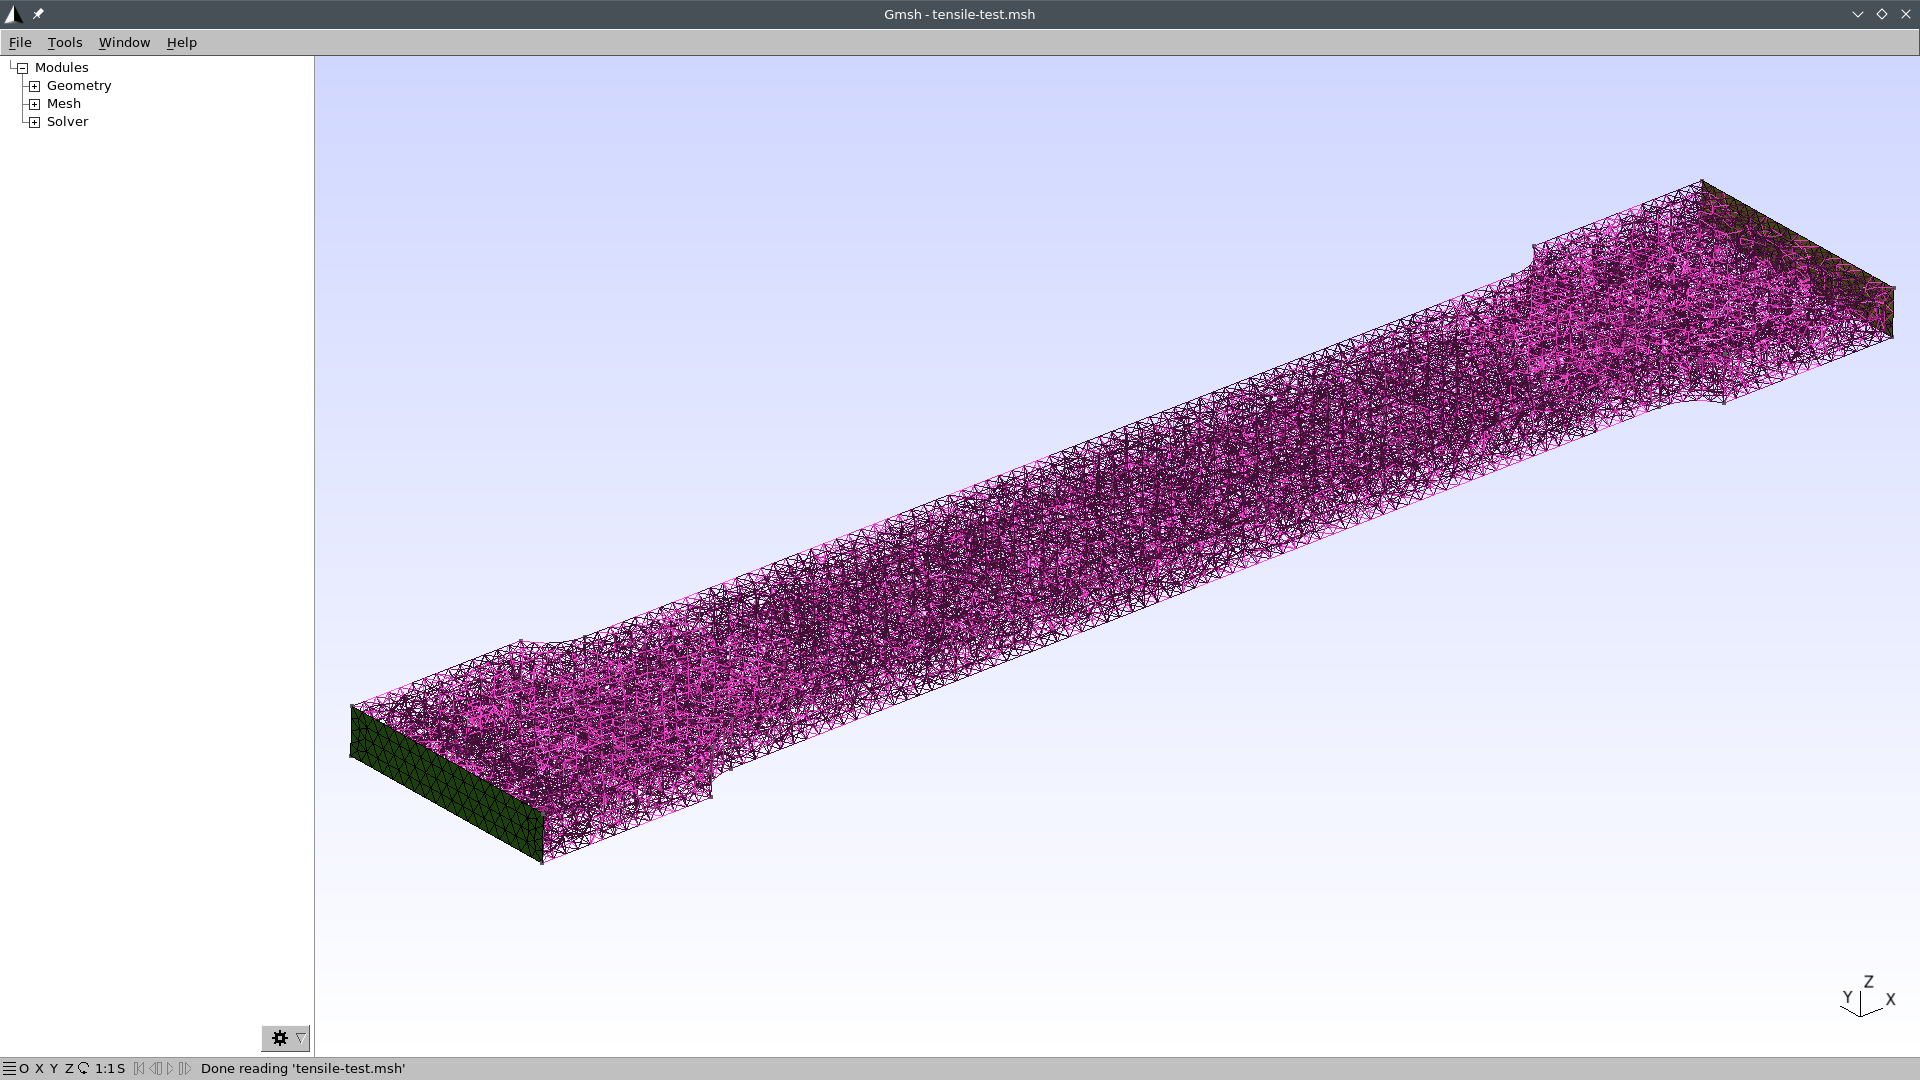
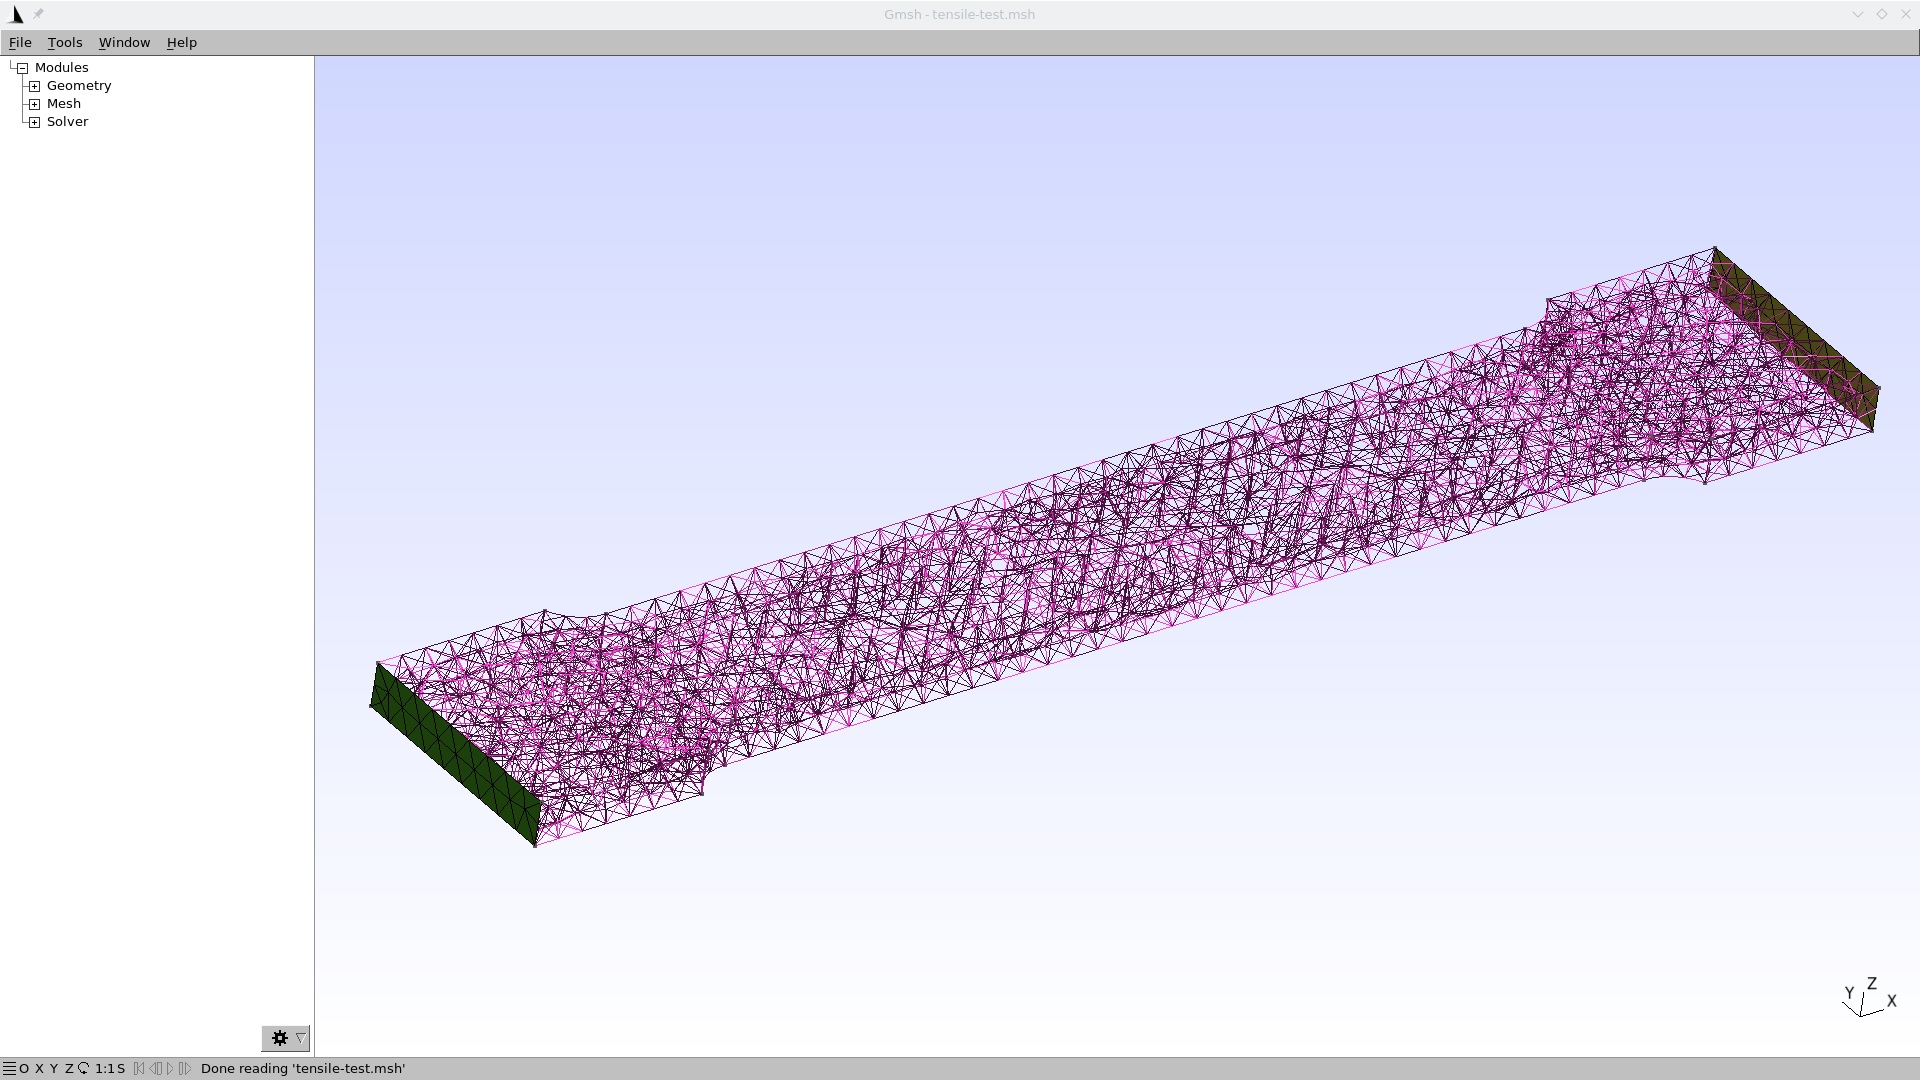
tutorial

Changed region(s): [[0.1562, 0.1528, 1.0, 0.7944], [0.0, 0.0, 1.0, 0.0306]]

diff --git a/doc/tutorials/110-tensile-test/README.md b/doc/tutorials/110-tensile-test/README.md
@@ -9,7 +9,7 @@ number-sections: true
 toc: true
 ...
 
-# Foreword
+# Foreword {#sec:foreword}
 
 Welcome to FeenoX’ tutorial number one!
 This first case...
@@ -20,7 +20,14 @@ This first case...
 
 > _Heads up_: this tutorial, being the first is also detailed and long. Those impatient readers might want to check directly some of the [annotated examples](https://seamplex.com/feenox/examples/) in [FeenoX webpage](https://seamplex.com/feenox/).
  
-For the nearly impatient, here is a summary of what we are going to achieve by the end of the tutorial:
+For the nearly impatient, here is a summary of what we are going to achieve by the end of the tutorial.
+We are going to understand what each of the parts of the FeenoX input file do:
+
+```{.fee include="tensile-test.fee"}
+```
+
+And we are going to run bot Gmsh and FeenoX to obtain the results listed in @sec:expected.
+
 
 **Terminal mimic**
 
@@ -235,35 +242,33 @@ Since we are solving a mechanical problem with FeenoX, any surface (or edge or v
   
     ```terminal
     $ gmsh -3 tensile-test.geo
-    Info    : Running 'gmsh -3 tensile-test.geo' [Gmsh 4.10.5, 1 node, max. 1 thread]    
-    Info    : Started on Sat Sep  3 15:36:58 2022    [...]
-    Info    : Reading 'tensile-test.geo'...    Info    : [100%] Meshing surface 14 order 2
-    Info    : Reading 'tensile-test-specimen.step'...    Info    : [100%] Meshing volume 1 order 2
-    Info    :  - Label 'Shapes/ASSEMBLY/=>[0:1:1:2]/Pad' (3D)    Info    : Surface mesh: worst distortion = 0.909145 (0 elements in ]0, 0.2]); worst gamma = 0.75719
-    Info    :  - Color (0.8, 0.8, 0.8) (3D & Surfaces)    Info    : Volume mesh: worst distortion = 0.761171 (0 elements in ]0, 0.2])
-    Info    : Done reading 'tensile-test-specimen.step'    Info    : Done meshing order 2 (Wall 0.22224s, CPU 0.222229s)
-    Info    : Done reading 'tensile-test.geo'    Info    : Optimizing mesh (HighOrderElastic)...
-    Info    : Meshing 1D...    Info    : Applying elastic analogy to high-order mesh...
-    Info    : [  0%] Meshing curve 1 (Line)    Info    : High-order tools set up: 49495 nodes are considered
-    Info    : [ 10%] Meshing curve 2 (Line)    Info    : Surface mesh: worst distortion = 0.909145 (0 elements in ]0, 0.2]); worst gamma = 0.75719
-    Info    : [ 10%] Meshing curve 3 (Line)    Info    : Final surface mesh: worst distortion = 0.909145 (0 elements in ]0, 0.2]); worst gamma = 0.75719
+    Info    : Running 'gmsh -3 tensile-test.geo' [Gmsh 4.10.5, 1 node, max. 1 thread]
+    Info    : Started on Sat Sep 10 15:22:59 2022
+    Info    : Reading 'tensile-test.geo'...
+    Info    : Reading 'tensile-test-specimen.step'...
+    Info    :  - Label 'Shapes/ASSEMBLY/=>[0:1:1:2]/Pad' (3D)
+    Info    :  - Color (0.8, 0.8, 0.8) (3D & Surfaces)
+    Info    : Done reading 'tensile-test-specimen.step'
+    Info    : Done reading 'tensile-test.geo'
+    Info    : Meshing 1D...
+    Info    : [  0%] Meshing curve 1 (Line)
+    Info    : [ 10%] Meshing curve 2 (Line)
+    Info    : [ 10%] Meshing curve 3 (Line)
     [...]
     -----8<----- more output cut out -----8<-----
     [...]
-    Info    : Volume mesh: worst distortion = 0.761171 (0 elements in ]0, 0.2])
-    Info    : Generating elastic system...
-    Info    : Solving linear system (89067 unknowns)...
-    Info    : Final volume mesh: worst distortion = 0.831408 (0 elements in ]0, 0.2])
-    Info    : Done applying elastic analogy to high-order mesh (5.0267 s)
-    Info    : Done optimizing mesh (Wall 4.7834s, CPU 5.03213s)
-    Info    : 50027 nodes 40376 elements
+    Info    : Final volume mesh: worst distortion = 0.796943 (0 elements in ]0, 0.2])
+    Info    : Done applying elastic analogy to high-order mesh (0.652083 s)
+    Info    : Done optimizing mesh (Wall 0.595085s, CPU 0.652091s)
+    Info    : 10754 nodes 8949 elements
     Info    : Writing 'tensile-test.msh'...
     Info    : Done writing 'tensile-test.msh'
-    Info    : Stopped on Sat Sep  3 15:37:06 2022 (From start: Wall 8.12854s, CPU 8.5042s)
+    Info    : Stopped on Sat Sep 10 15:23:01 2022 (From start: Wall 1.35632s, CPU 1.62598s)
     $
     ```
     
-    If you don't like Gmsh' verbosity, you can change it with the command-line option `-v`. I recommend you read its [extensive documentation](http://gmsh.info/doc/texinfo/gmsh.html) for further details.
+    If you don't like Gmsh' verbosity, you can change it with the command-line option `-v`.
+    I recommend you read its [extensive documentation](http://gmsh.info/doc/texinfo/gmsh.html) for further details.
     
  6. Now that the mesh file has been created, you can open it with the Gmsh GUI to check how it looks like.
  
@@ -280,11 +285,15 @@ Since we are solving a mechanical problem with FeenoX, any surface (or edge or v
     
      * Tools $\rightarrow$ Options $\rightarrow$ Mesh $\rightarrow$ 3D element faces
      
+    We can then add a clipping plane to peek at the tetrahedra in the bulk of the specimen:
+    
+     * Tools $\rightarrow$ Clipping $\rightarrow$ Mesh $\rightarrow$ $A=0$, $B=1$, "Keep whole elements"
+     
     Now you should get 
     
     ![](gmsh-mesh-volume.png)\ 
     
-    We are seeing the faces of the tetrahedra that make up the bulk of the mesh. Feel free to close Gmsh now, we are done with it.
+    Feel free to close Gmsh now, we are done with it.
 
 
 In general, multi-solid problems need to have different physical volumes in order for FeenoX to be able to set different mechanical properties. Even though this simple problem has a single solid and an explicit link is not needed, a physical volumetric group is needed in order for Gmsh to write the volumetric elements (i.e. tetrahedra) into the [output MSH file](tensile-test.msh) (which is an input for FeenoX).
@@ -312,7 +321,7 @@ As discussed in @sec:unix, FeenoX reads a plain-text input file---which in turns
 
 The input file is a [syntactically-sweetened](http://en.wikipedia.org/wiki/Syntactic_sugar) way to ask the computer to perform the actual computation (which is what computers do). This input file, as illustrated in the example below lives somewhere near the English language so a person can read through it from the top down to the bottom and more or less understand what is going on (rule of [least surprise](https://homepage.cs.uri.edu/~thenry/resources/unix_art/ch01s06.html#id2878339)). The idea is that this input file should match as much as possible the definition of the problem as an engineer would cast it in a plain sheet of paper (or blackboard).
 
-**blackboard picture with the problem definition**
+![Human-made formulation of the tensile test problem in a board.](blackboard.jpg){#fig:blackboard}
 
 Yet in the extreme case that the complexity of the problem asks for, the input file could be machine-generated by a script or a macro (rule of [generation](https://homepage.cs.uri.edu/~thenry/resources/unix_art/ch01s06.html#id2878742)).
 Or if the circumstances call for an actual graphical interface for properly processing (both pre and post) the problem, the input file could be created by a separate cooperating front-end such as [CAEplex](https://www.caeplex.com) in [@fig:tensile-cad] above (rule of [separation](https://homepage.cs.uri.edu/~thenry/resources/unix_art/ch01s06.html#id2877777)).
@@ -322,34 +331,7 @@ This is not true for most of the other FEA tools available today, particularly t
 Given that the problem is relatively simple, following the rule of [simplicity](https://homepage.cs.uri.edu/~thenry/resources/unix_art/ch01s06.html#id2877917),
 the input file [`tensile-test.fee`](tensile-test.fee) ought to be also simple. Other cases with more complexity might lead to more complex input files.
 
-```feenox
-# tensile test example for FeenoX, see https://caeplex.com/p/41dd1
-MESH FILE_PATH tensile-test.msh  # mesh file in Gmsh format (either version 2.2 or 4.x)
-
-# uniform properties given as scalar variables
-E = 200e3   # [ MPa ] Young modulus = 200 GPa
-nu = 0.3    # Poisson’s ratio
-
-# boundary conditions ("left" and "right" come from the names in the mesh)
-PHYSICAL_GROUP left  BC fixed       # fixed end
-PHYSICAL_GROUP right BC Fx=1e4      # [ N ] load in x+
-
-FINO_SOLVER PROGRESS_ASCII  # print ascii progress bars (optional) 
-FINO_STEP                   # solve
-
-# compute reaction force at fixed end
-FINO_REACTION PHYSICAL_GROUP left RESULT R
-
-# write results (Von Mises, principal and displacements) in a VTK file
-MESH_POST FILE_PATH tensile-test.vtk sigma sigma1 sigma2 sigma3 VECTOR u v w
-
-# print some results (otherwise output will be null)
-PRINT "displ_max = " %.3f displ_max "mm"
-PRINT "sigma_max = " %.1f sigma_max "MPa"
-PRINT "principal1 at center = " %.8f sigma1(0,0,0) "MPa"
-PRINT "reaction  = [" %.3e R "] Newtons"
-PRINT FILE_PATH tensile-sigma.dat %.0f sigma(0,0,0)
-
+```{.fee include="tensile-test.fee"}
 ```
 
  * The mesh [`tensile-test.msh`](tensile-test.msh) is the output of Gmsh when invoked with the input [`tensile-test.geo`](tensile-test.geo) above. It can be either [version\ 4.1](http://gmsh.info/doc/texinfo/gmsh.html#MSH-file-format) or [2.2](http://gmsh.info/doc/texinfo/gmsh.html#MSH-file-format-version-2-_0028Legacy_0029).
@@ -363,6 +345,7 @@ PRINT FILE_PATH tensile-sigma.dat %.0f sigma(0,0,0)
     - The displacement vector $\mathbf{u}=[u,v,w]$ as a three-dimensional vector field
  * Some results are printed to the terminal (i.e. the [standard output](https://en.wikipedia.org/wiki/Standard_streams#Standard_output_(stdout))) to summarize the run.
  Note that
+ 
      1. The actual output (including post-processing files) is 100% defined by the user, and
      2. If no output instructions are given in the input file (`PRINT`, `MESH_POST`, etc.) then no output will be obtained.
  

diff --git a/doc/tutorials/000-setup/README.md b/doc/tutorials/000-setup/README.md
@@ -136,7 +136,7 @@ If any of the lines does not say `ok` but something else, then the code contains
 
 # Gmsh
 
-To solve problems involving partial differential equations (i.e. elasticity, heat conduction, etc.) FeenoX needs a mesh in [Gmsh's MSH format](http://gmsh.info/doc/texinfo/gmsh.html#MSH-file-format). Any mesher whose output format can be converted to `.msh` should work, altough of course the most natural way to create these meshes is to use [Gmsh](http://gmsh.info/) itself.
+To solve problems involving partial differential equations (i.e. elasticity, heat conduction, neutron transport, etc.) FeenoX needs a mesh in [Gmsh's MSH format](http://gmsh.info/doc/texinfo/gmsh.html#MSH-file-format). Any mesher whose output format can be converted to `.msh` should work, altough of course the most natural way to create these meshes is to use [Gmsh](http://gmsh.info/) itself.
 
 The easiest way to go is to install Gmsh from the `apt` repository:
 
@@ -177,17 +177,35 @@ Also, Gmsh can be compiled from source by following the [instructions in the doc
 
 It is important to note that Gmsh creates its meshes by reading an input file with extension `.geo` without needing to use a graphical interface at all. Therefore, Gmsh can be used even through `ssh` or `docker` where there is no graphical device. However, it does provide a GUI that is very handy to create the `.geo` in the first place and to help identify the ids of the surfaces that will be subject to boundary conditions. So you will be able to go through the tutorials in text-only mode but you will not be able to exploit its full potential nor even see what the mesh you are using look like.
 
+## Checking that mesh refinement gives more accurate results
+
+Let us now go back to the `examples` directory and refine the mesh of the [“Parallelepiped...”](https://www.seamplex.com/feenox/examples/#parallelepiped-whose-youngs-modulus-is-a-function-of-the-temperature) case.
+
+```terminal
+$ gmsh -3 parallelepiped.geo -order 1 -clscale 1.2 -o parallelepiped-coarse.msh
+[...]
+$ gmsh -3 parallelepiped.geo -order 2 -clscale 0.6
+[...]
+$ feenox parallelepiped-thermal.fee 
+1.05973e-10
+$ feenox parallelepiped-mechanical.fee
+6.95446e-05
+$ 
+```
+
+Don't worry if you do not undertsand the Gmsh command line. We will work out the details in the tutorials.
+
 
 # Text editor
 
-In order to create the both the FeenoX and the Gmsh input files, you will need a text editor. In principle any editor will do, but since FeenoX uses keywords to define the problem being solved, it is way more efficient (and aesthetically pleasant) to use one that supports syntax highlighting.
+In order to create the both the FeenoX and the Gmsh input files, you will need a text editor. In principle any editor will do, but since FeenoX uses keywords to define the problem being solved, it is way more efficient (and aesthetically more pleasant) to use one that supports syntax highlighting.
 
 ## Vim
 
 The `vim` text editor can be perfectly used to edit input files. It is text-only so it works through `ssh` and `docker`.
-It has a non-trivial learning curve but it is worth to learn its basics because at some point you will want to run FeenoX in an actual cloud server and [Vim](https://www.vim.org/) will be your friend there.
+It has a non-trivial learning curve but it is worth to learn its basics because at some point you will want to run FeenoX in an actual cloud server. [Vim](https://www.vim.org/) will be your friend there.
 
-To enable syntax highlighting copy the file `fee.vim` into `~/.vim/syntax`.
+To enable syntax highlighting copy the file [`fee.vim`](https://raw.githubusercontent.com/seamplex/feenox/main/doc/fee.vim) into `~/.vim/syntax`.
 
 ![FeenoX input file edited in Vim on Konsole](highlighting-vim.png)
 
@@ -197,12 +215,17 @@ To enable syntax highlighting copy the file `fee.vim` into `~/.vim/syntax`.
 
 For those using a native GNU/Linux box with a graphical interface, the recommended editor is [Kate](https://kate-editor.org/).
 
+To enable syntax highlighting copy the file [`feenox.xml`](https://raw.githubusercontent.com/seamplex/feenox/main/doc/feenox.xml) into `~/.local/share/katepart5/syntax/`.
+
+
 ![FeenoX input file edited in Kate on Plasma](highlighting-kate.png)
 
 
 # Post-processors
 
-FeenoX can write mesh results either in `.msh` or `.vtk` format. The former can be read and postprocessed by Gmsh. The latter can be read and postprocessed by a few different tools, but Paraview is the flagship postprocessor.
+FeenoX can write mesh results either in `.msh` or `.vtk` format.
+The former can be read and postprocessed by Gmsh.
+The latter can be read and postprocessed by a few different tools, but Paraview is the flagship postprocessor.
 In general any version will do, so it can be installed with
 
 ```terminal
@@ -215,8 +238,12 @@ Note that both Gmsh in post-processing mode and Paraview make sense only if you 
 
 # Other UNIX tools
 
+To be done.
+
 ## Awk
+
+To be done.
 
 ## M4
 
-
+To be done.
